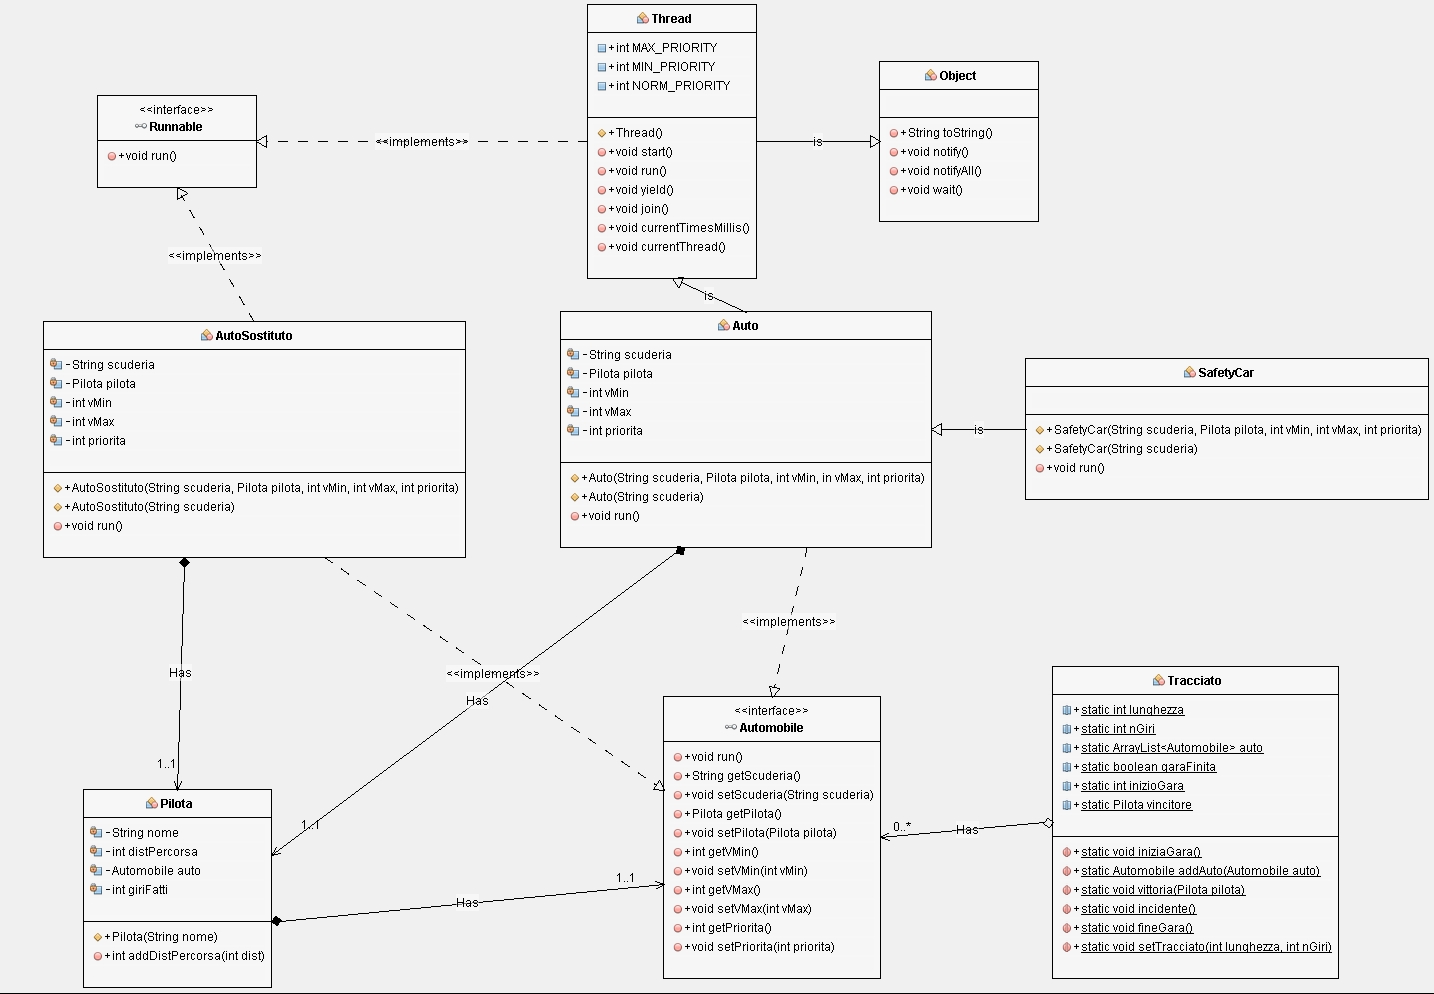
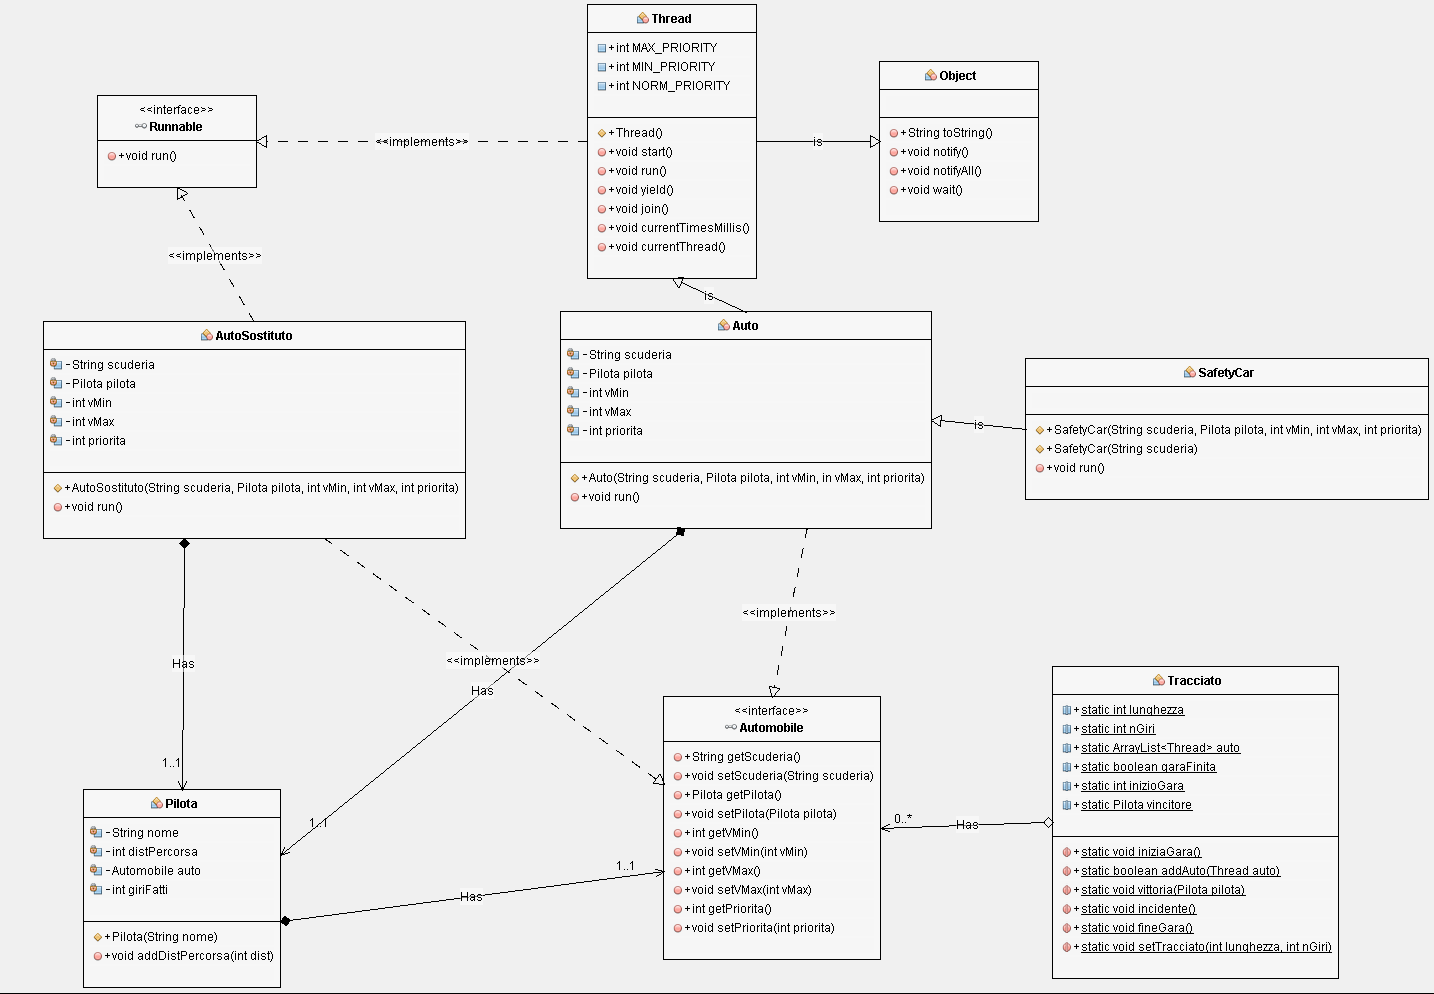
Implementazione parzialmente funzionante in Java. Auto runnabile e Tracciato settabile. Diagramma UML e relazione rifiniti.

diff --git a/GaraAuto/src/garaauto/Auto.java b/GaraAuto/src/garaauto/Auto.java
@@ -1,5 +1,8 @@
 package garaauto;
 
+import java.util.logging.Level;
+import java.util.logging.Logger;
+
 public class Auto extends Thread implements Automobile {
 
     private String scuderia;
@@ -10,16 +13,27 @@ public class Auto extends Thread implements Automobile {
 
     private int vMax;
 
-    private int priorita;
-
     public Auto(String scuderia, Pilota pilota, int vMin, int vMax, int priorita) {
-    }
-
-    public Auto(String scuderia) {
+        super(scuderia);
+        setPriority(priorita);
+        this.scuderia = scuderia;
+        this.pilota = pilota;
+        this.vMin = vMin;
+        this.vMax = vMax;
     }
 
     @Override
     public void run() {
+        while(true){
+            try {
+                int distanza = (int) (Math.random() * (vMax-vMin) + vMin);
+                System.out.println("Distanza percorsa da" + this.scuderia +" : " + distanza + "mt");
+                this.pilota.addDistPercorsa(distanza);
+                sleep(1000);
+            } catch (InterruptedException ex) {
+                Logger.getLogger(Auto.class.getName()).log(Level.SEVERE, null, ex);
+            }
+        }
     }
 
     @Override
@@ -43,11 +57,6 @@ public class Auto extends Thread implements Automobile {
     }
 
     @Override
-    public int getPriorita() {
-        return priorita;
-    }
-
-    @Override
     public void setScuderia(String scuderia) {
         this.scuderia = scuderia;
     }
@@ -65,11 +74,6 @@ public class Auto extends Thread implements Automobile {
     @Override
     public void setVMax(int vMax) {
         this.vMax = vMax;
-    }
-
-    @Override
-    public void setPriorita(int priorita) {
-        this.priorita = priorita;
     }
     
 }

diff --git a/GaraAuto/src/garaauto/Tracciato.java b/GaraAuto/src/garaauto/Tracciato.java
@@ -8,7 +8,7 @@ public class Tracciato {
 
     public static int nGiri;
 
-    public static ArrayList<Automobile> auto;
+    public static ArrayList<Thread> arrayAuto;
 
     public static boolean garaFinita;
 
@@ -17,10 +17,13 @@ public class Tracciato {
     public static Pilota vincitore;
 
     public static void iniziaGara() {
+        for(Thread a : arrayAuto){
+            a.start();
+        }
     }
 
-    public static boolean addAuto(Automobile auto) {
-        return Tracciato.auto.add(auto);
+    public static boolean addAuto(Thread auto) {
+        return Tracciato.arrayAuto.add(auto);
     }
 
     public static void vittoria(Pilota pilota) {
@@ -33,5 +36,32 @@ public class Tracciato {
     }
 
     public static void setTracciato(int lunghezza, int nGiri) {
+        arrayAuto = new ArrayList<>();
+        Tracciato.lunghezza = lunghezza;
+        Tracciato.nGiri = nGiri;
+    }
+
+    public static int getLunghezza() {
+        return lunghezza;
+    }
+
+    public static int getnGiri() {
+        return nGiri;
+    }
+
+    public static ArrayList<Thread> getArrayAuto() {
+        return arrayAuto;
+    }
+
+    public static boolean isGaraFinita() {
+        return garaFinita;
+    }
+
+    public static int getInizioGara() {
+        return inizioGara;
+    }
+
+    public static Pilota getVincitore() {
+        return vincitore;
     }
 }

diff --git a/GaraAuto/src/garaauto/GaraAuto.java b/GaraAuto/src/garaauto/GaraAuto.java
@@ -15,7 +15,18 @@ public class GaraAuto {
      * @param args the command line arguments
      */
     public static void main(String[] args) {
-        // TODO code application logic here
+        Tracciato.setTracciato(4000, 10);
+        
+        Tracciato.addAuto(new Auto("Scuderia 1", new Pilota("Pilota 1"), 100, 150, 5));
+        Tracciato.addAuto(new Auto("Scuderia 2", new Pilota("Pilota 2"), 100, 150, 5));
+        Tracciato.addAuto(new Auto("Scuderia 3", new Pilota("Pilota 3"), 100, 150, 5));
+        Tracciato.addAuto(new Auto("Scuderia 4", new Pilota("Pilota 4"), 100, 150, 5));
+        Tracciato.addAuto(new Auto("Scuderia 5", new Pilota("Pilota 5"), 100, 150, 5));
+        Tracciato.addAuto(new Auto("Scuderia 6", new Pilota("Pilota 6"), 100, 150, 5));
+        Tracciato.addAuto(new Auto("Scuderia 7", new Pilota("Pilota 7"), 100, 150, 5));
+        Tracciato.addAuto(new Auto("Scuderia 8", new Pilota("Pilota 8"), 100, 150, 5));
+        
+        Tracciato.iniziaGara();
     }
     
 }

diff --git a/GaraAuto/src/garaauto/AutoSostituto.java b/GaraAuto/src/garaauto/AutoSostituto.java
@@ -15,9 +15,6 @@ public class AutoSostituto implements Automobile, Runnable {
     public AutoSostituto(String scuderia, Pilota pilota, int vMin, int vMax, int priorita) {
     }
 
-    public AutoSostituto(String scuderia) {
-    }
-
     @Override
     public void run() {
     }
@@ -43,11 +40,6 @@ public class AutoSostituto implements Automobile, Runnable {
     }
 
     @Override
-    public int getPriorita() {
-        return priorita;
-    }
-
-    @Override
     public void setScuderia(String scuderia) {
         this.scuderia = scuderia;
     }
@@ -65,10 +57,5 @@ public class AutoSostituto implements Automobile, Runnable {
     @Override
     public void setVMax(int vMax) {
         this.vMax = vMax;
-    }
-
-    @Override
-    public void setPriorita(int priorita) {
-        this.priorita = priorita;
     }
 }

diff --git a/GaraAuto/src/garaauto/Automobile.java b/GaraAuto/src/garaauto/Automobile.java
@@ -2,8 +2,6 @@ package garaauto;
 
 public interface Automobile {
 
-    public void run();
-
     public String getScuderia();
 
     public void setScuderia(String scuderia);
@@ -19,8 +17,4 @@ public interface Automobile {
     public int getVMax();
 
     public void setVMax(int vMax);
-
-    public int getPriorita();
-
-    public void setPriorita(int priorita);
 }

diff --git a/GaraAuto/src/garaauto/SafetyCar.java b/GaraAuto/src/garaauto/SafetyCar.java
@@ -6,10 +6,6 @@ public class SafetyCar extends Auto {
         super(scuderia, pilota, vMin, vMax, priorita);
     }
 
-    public SafetyCar(String scuderia) {
-        super(scuderia);
-    }
-
     @Override
     public void run() {
     }

diff --git a/GaraAuto/src/garaauto/Pilota.java b/GaraAuto/src/garaauto/Pilota.java
@@ -11,7 +11,7 @@ public class Pilota {
     private int giriFatti;
 
     public Pilota(String nome) {
-
+        this.nome = nome;
     }
 
     public void addDistPercorsa(int dist) {
